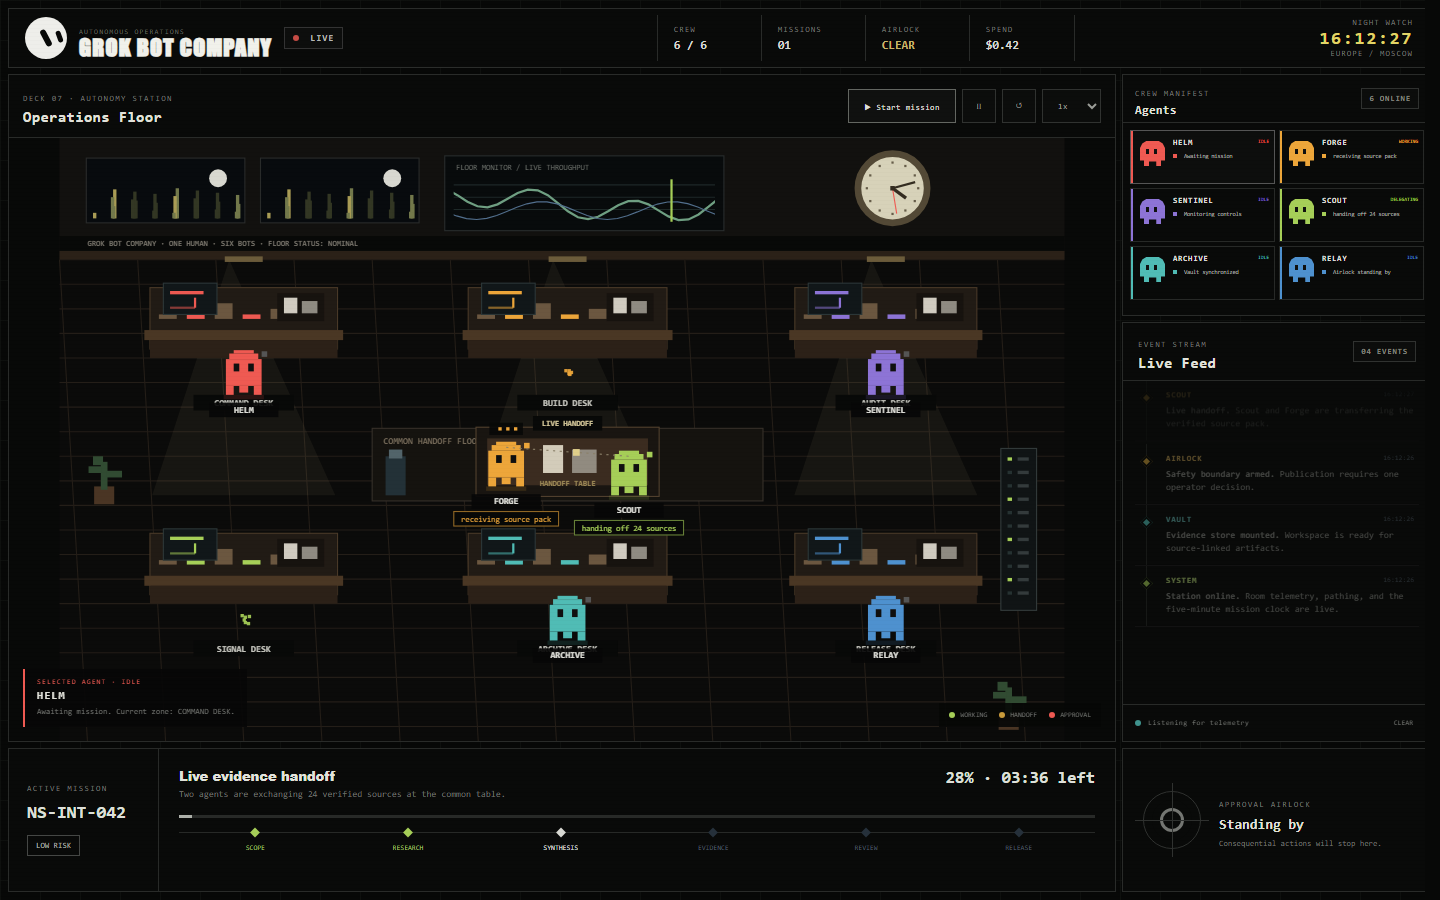
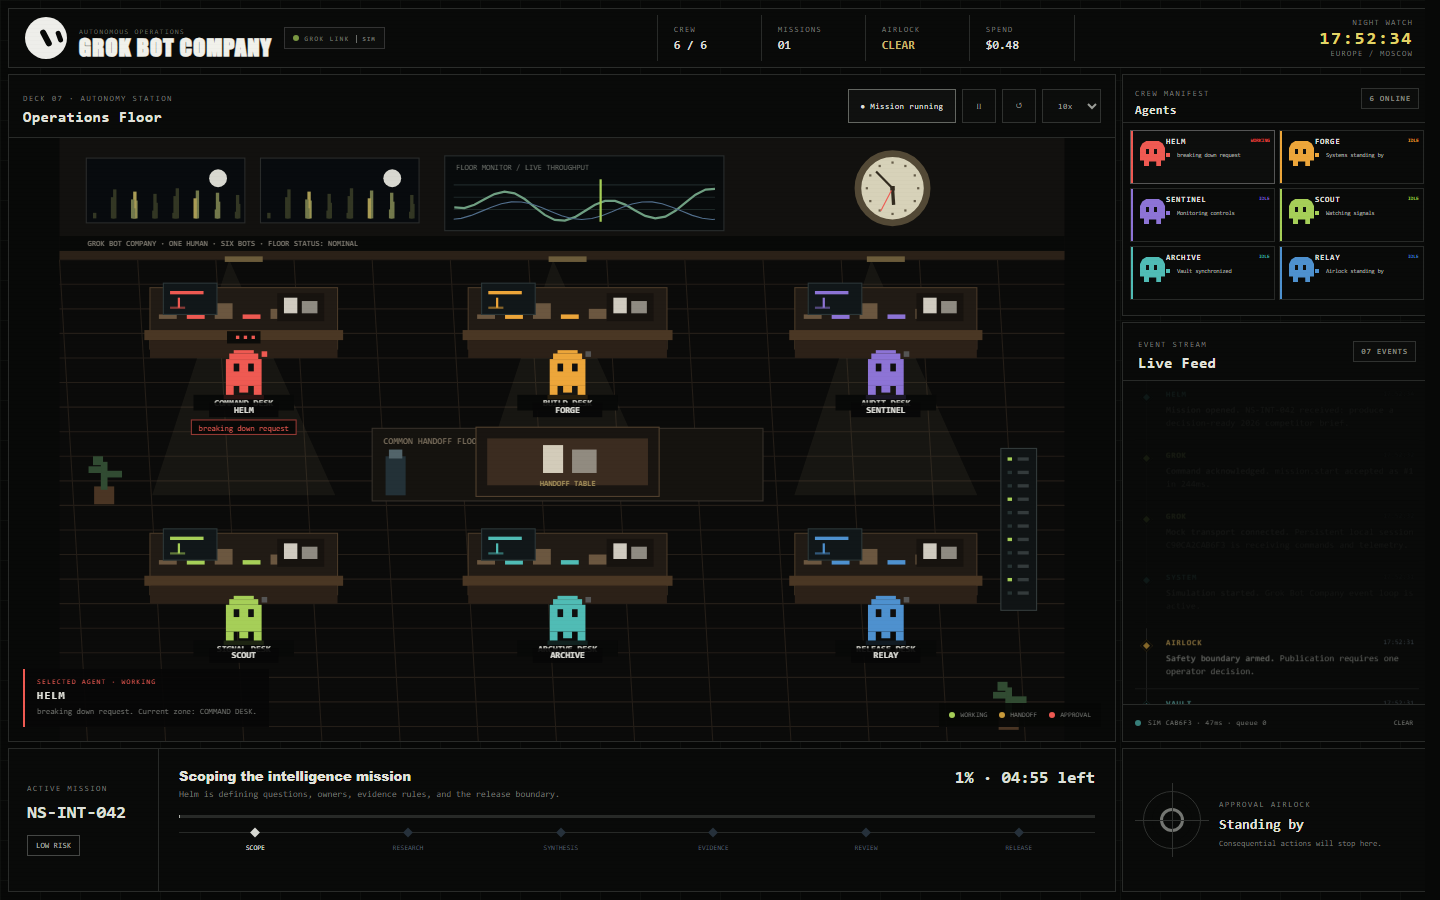
added logic

diff --git a/app.js b/app.js
@@ -2,6 +2,7 @@
 "use strict";
 const $=s=>document.querySelector(s), canvas=$("#stationCanvas"), ctx=canvas.getContext("2d");
 const C={helm:"#ef5a52",forge:"#eda63a",sentinel:"#8d74d6",scout:"#a6cf58",archive:"#50bcb5",relay:"#4e91cf",green:"#a6cf58",amber:"#c99b3b",red:"#ef5a52",cyan:"#50bcb5",muted:"#747474"};
+const bridge=window.grokBot||null;
 const zones=[
  {id:"bridge",name:"COMMAND DESK",x:65,y:115,w:200,h:125,color:C.helm,type:"bridge"},
  {id:"build",name:"BUILD DESK",x:350,y:115,w:210,h:125,color:C.forge,type:"build"},
@@ -76,6 +77,7 @@ function event(actor,title,message,tone){
  el.className="event";el.style.setProperty("--tone",colors[tone]||C.cyan);
  el.innerHTML='<i></i><div><b>'+actor+'</b><time>'+time+'</time></div><p><strong>'+title+'.</strong> '+message+'</p>';
  $("#eventFeed").prepend(el);state.count++;$("#eventCount").textContent=String(state.count).padStart(2,"0")+" EVENTS";
+ if(bridge)bridge.recordEvent({missionId:"NS-INT-042",actor,title,message,tone});
 }
 function formatDuration(ms){const total=Math.max(0,Math.ceil(ms/1000)),m=Math.floor(total/60),s=total%60;return String(m).padStart(2,"0")+":"+String(s).padStart(2,"0")}
 function stage(name,progress,title,sub){
@@ -85,23 +87,28 @@ function stage(name,progress,title,sub){
 function requestApproval(){
  state.approval=true;state.running=false;$("#approvalIdle").hidden=true;$("#approvalRequest").hidden=false;
  $("#airlockMetric").textContent="01 WAITING";$("#airlockMetric").style.color=C.red;$("#riskBadge").textContent="APPROVAL HOLD";$("#riskBadge").style.color=C.red;burst(points.airlock.x,points.airlock.y,C.red,28);
+ if(bridge)bridge.requestApproval({missionId:"NS-INT-042",agent:"relay",action:"publish intelligence brief",reversible:true});
 }
 function resolve(ok){
  if(!state.approval)return;state.approval=false;$("#approvalIdle").hidden=false;$("#approvalRequest").hidden=true;$("#airlockMetric").textContent="CLEAR";$("#airlockMetric").style.color="";
+ if(bridge)bridge.resolveApproval(ok?"approved":"rejected");
  if(ok){event("operator","Action approved","The intelligence brief passed through the Approval Airlock.","green");agent("relay","complete","release approved","airlock");agent("helm","complete","mission completed","bridge");stage("release",100,"Mission complete","Six agents produced an audited brief with a traceable evidence record.");$("#riskBadge").textContent="COMPLETED";$("#riskBadge").style.color=C.green;state.complete=true;state.spend=4.07;$("#spendMetric").textContent="$4.07";setTimeout(()=>event("helm","Mission completed","NS-INT-042 closed with a clean evidence record.","green"),500);burst(points.bridge.x,points.bridge.y,C.green,24)}
  else{state.rejected=true;event("operator","Action rejected","Publication blocked; all artifacts remain reversible in the Vault.","red");agent("relay","idle","release cancelled","airlock");agent("helm","working","revising release plan","bridge");agent("forge","working","preparing private revision","build");stage("synthesis",48,"Returned for revision","The external action was rejected; the evidence pack remains intact.");$("#riskBadge").textContent="REVISION";$("#riskBadge").style.color=C.amber}
 }
 function start(){
  if(state.complete||state.rejected||state.cursor>=timeline.length)reset(false);if(state.approval)return;
- state.running=true;state.paused=false;$("#startBtn").textContent="● Mission running";event("system","Simulation started","Grok Bot Company event loop is active.","cyan");
+ state.running=true;state.paused=false;$("#startBtn").textContent="● Mission running";event("system","System started","Grok Bot Company event loop is active.","cyan");
+ if(bridge)bridge.startMission({id:"NS-INT-042",objective:"Build the 2026 competitor intelligence brief",agents:agents.map(a=>a.id)}).then(ack=>event("grok","Command acknowledged","mission.start accepted as #"+ack.sequence+" in "+ack.latency+"ms.","green")).catch(()=>event("grok","Transport warning","Mission continues locally; command acknowledgement was not received.","amber"));
 }
 function pause(){
- if(state.approval||state.complete)return;state.paused=!state.paused;state.running=!state.paused;$("#pauseBtn").textContent=state.paused?"▶":"Ⅱ";event("system",state.paused?"Simulation paused":"Simulation resumed",state.paused?"Timeline execution is holding.":"Timeline execution continues.","amber");
+ if(state.approval||state.complete)return;state.paused=!state.paused;state.running=!state.paused;$("#pauseBtn").textContent=state.paused?"▶":"Ⅱ";event("system",state.paused?"System paused":"System resumed",state.paused?"Timeline execution is holding.":"Timeline execution continues.","amber");
+ if(bridge)bridge.setMissionState(state.paused?"paused":"running");
 }
 function reset(announce=true){
  state.running=false;state.paused=false;state.approval=false;state.complete=false;state.rejected=false;state.elapsed=0;state.cursor=0;state.artifacts=0;state.spend=.42;agents=initial.map(a=>({...a}));
  $("#approvalIdle").hidden=false;$("#approvalRequest").hidden=true;$("#airlockMetric").textContent="CLEAR";$("#airlockMetric").style.color="";$("#spendMetric").textContent="$0.42";$("#riskBadge").textContent="LOW RISK";$("#riskBadge").style.color="";$("#startBtn").textContent="▶ Start mission";$("#pauseBtn").textContent="Ⅱ";
  stage(null,0,"Build the 2026 competitor intelligence brief","Research 24 sources, map claims, build an evidence pack, audit, and prepare release.");document.querySelectorAll("#stages span").forEach(n=>n.classList.remove("active","done"));renderRoster();select("helm");if(announce)event("system","Mission reset","All agents returned to their stations; the five-minute clock is ready.","amber");
+ if(bridge&&announce)bridge.resetMission();
 }
 function burst(x,y,color,count){for(let i=0;i<count;i++)state.particles.push({x,y,color,life:1,dx:(Math.random()-.5)*2.8,dy:(Math.random()-.5)*2.8})}
 function resize(){const r=canvas.getBoundingClientRect(),d=Math.min(devicePixelRatio||1,2);canvas.width=Math.max(1,r.width*d);canvas.height=Math.max(1,r.height*d);ctx.setTransform(d,0,0,d,0,0);ctx.imageSmoothingEnabled=false}
@@ -194,8 +201,25 @@ function draw(){const w=canvas.clientWidth,h=canvas.clientHeight;ctx.clearRect(0
 function tick(now){const dt=Math.min(40,now-state.last);state.last=now;if(state.running&&!state.approval){state.elapsed=Math.min(state.duration,state.elapsed+dt*state.speed);while(state.cursor<timeline.length&&state.elapsed>=timeline[state.cursor].at)timeline[state.cursor++].run();if(!state.approval){const progress=Math.min(96,Math.floor(state.elapsed/state.duration*100));$("#progressBar").style.width=progress+"%";$("#progressLabel").textContent=progress+"% · "+formatDuration(state.duration-state.elapsed)+" left"}state.spend=Math.min(4.07,.42+state.elapsed/1000*.0122);$("#spendMetric").textContent="$"+state.spend.toFixed(2)}ambient(now);move(dt);draw();requestAnimationFrame(tick)}
 function canvasClick(e){const r=canvas.getBoundingClientRect(),t=transform(),x=(e.clientX-r.left-t.ox)/t.s,y=(e.clientY-r.top-t.oy)/t.s,a=agents.find(q=>Math.hypot(q.x-x,q.y-y)<30);if(a)return select(a.id);const z=zones.find(q=>x>=q.x&&x<=q.x+q.w&&y>=q.y&&y<=q.y+q.h);if(z){const box=$("#selection"),crew=agents.filter(a=>a.zone===z.id).length;box.querySelector("span").textContent="STATION ZONE";box.querySelector("b").textContent=z.name;box.querySelector("p").textContent=crew+" crew assigned · "+z.type.toUpperCase()+" subsystem online.";box.style.borderColor=z.color;box.querySelector("span").style.color=z.color}}
 function clock(){$("#clock").textContent=new Intl.DateTimeFormat("en-GB",{timeZone:"Europe/Moscow",hour:"2-digit",minute:"2-digit",second:"2-digit",hour12:false}).format(new Date())}
-$("#startBtn").onclick=start;$("#pauseBtn").onclick=pause;$("#resetBtn").onclick=()=>reset();$("#speed").onchange=e=>{state.speed=Number(e.target.value);event("system","Timeline speed changed","Simulation is running at "+state.speed+"×.","amber")};$("#approveBtn").onclick=()=>resolve(true);$("#rejectBtn").onclick=()=>resolve(false);$("#inspectBtn").onclick=()=>$("#inspectDialog").showModal();$("#clearFeed").onclick=()=>{$("#eventFeed").innerHTML="";state.count=0;$("#eventCount").textContent="00 EVENTS"};canvas.onclick=canvasClick;window.onresize=resize;if("ResizeObserver"in window)new ResizeObserver(resize).observe(canvas);
+function transportState(status,detail={}){
+ const badge=$("#connectionBadge"),label=$("#connectionText"),bus=$("#eventBusStatus"),footer=$("#transportStatus"),session=(detail.sessionId||bridge&&bridge.sessionId||"session_pending").split("_").pop().slice(-6).toUpperCase();
+ badge.classList.remove("connecting","online","offline");badge.classList.add(status);badge.dataset.mode=detail.mode||"mock";
+ if(status==="online"){label.textContent="GROK LINK";bus.textContent="ONLINE";footer.textContent="SIM "+session+" · "+(detail.rtt||"--")+"ms · queue "+(detail.queueDepth||0)}
+ else if(status==="connecting"){label.textContent="LINKING";bus.textContent="LINKING";footer.textContent="Negotiating Grok session "+session}
+ else{label.textContent="OFFLINE";bus.textContent="OFFLINE";footer.textContent="Local mission engine only"}
+ badge.title="Grok Bot transport · session "+session;
+}
+function bindTransport(){
+ if(!bridge){transportState("offline");return}
+ bridge.addEventListener("connection",e=>transportState(e.detail.status,e.detail));
+ bridge.addEventListener("heartbeat",e=>transportState("online",e.detail));
+ bridge.addEventListener("queue",e=>{const status=bridge.snapshot();transportState(status.status,{sessionId:status.sessionId,mode:status.mode,rtt:status.lastAck&&status.lastAck.latency,queueDepth:e.detail.depth})});
+ bridge.addEventListener("ack",e=>transportState("online",{sessionId:e.detail.sessionId,mode:e.detail.mode,rtt:e.detail.latency,queueDepth:bridge.snapshot().queueDepth}));
+ bridge.connect().then(info=>event("grok","Mock transport connected","Persistent local session "+info.sessionId.split("_").pop().toUpperCase()+" is receiving commands and telemetry.","green")).catch(()=>transportState("offline"));
+}
+$("#startBtn").onclick=start;$("#pauseBtn").onclick=pause;$("#resetBtn").onclick=()=>reset();$("#speed").onchange=e=>{state.speed=Number(e.target.value);event("system","Timeline speed changed","System is running at "+state.speed+"×.","amber")};$("#approveBtn").onclick=()=>resolve(true);$("#rejectBtn").onclick=()=>resolve(false);$("#inspectBtn").onclick=()=>$("#inspectDialog").showModal();$("#clearFeed").onclick=()=>{$("#eventFeed").innerHTML="";state.count=0;$("#eventCount").textContent="00 EVENTS"};canvas.onclick=canvasClick;window.onresize=resize;if("ResizeObserver"in window)new ResizeObserver(resize).observe(canvas);
 window.onkeydown=e=>{if(e.code==="Space"&&e.target.tagName!=="BUTTON"){e.preventDefault();state.running?pause():start()}if(e.key.toLowerCase()==="r")reset()};
+bindTransport();
 renderRoster();resize();select("helm");stage(null,0,"Build the 2026 competitor intelligence brief","Research 24 sources, map claims, build an evidence pack, audit, and prepare release.");document.querySelectorAll("#stages span").forEach(n=>n.classList.remove("active","done"));
 event("system","Station online","Room telemetry, pathing, and the five-minute mission clock are live.","green");event("vault","Evidence store mounted","Workspace is ready for source-linked artifacts.","cyan");event("airlock","Safety boundary armed","Publication requires one operator decision.","amber");
 clock();setInterval(clock,1000);requestAnimationFrame(tick);

diff --git a/grokbot-adapter.js b/grokbot-adapter.js
@@ -1,0 +1,37 @@
+(() => {
+"use strict";
+const STORAGE_KEY="grok-bot-company.transport.v1";
+const wait=ms=>new Promise(resolve=>setTimeout(resolve,ms));
+class GrokBotAdapter extends EventTarget{
+ constructor(options={}){
+  super();const saved=this.read();this.mode=options.mode||"mock";this.status="offline";
+  this.sessionId=saved.sessionId||this.createId("session");this.sequence=saved.sequence||0;this.startedAt=Date.now();
+  this.lastHeartbeat=0;this.lastAck=null;this.outbox=[];this.telemetry=saved.telemetry||[];this.mission=saved.mission||null;this.connecting=null;this.heartbeatTimer=0;
+ }
+ createId(prefix){const value=globalThis.crypto&&crypto.randomUUID?crypto.randomUUID().replaceAll("-","").slice(0,12):Math.random().toString(16).slice(2,14);return prefix+"_"+value}
+ read(){try{return JSON.parse(localStorage.getItem(STORAGE_KEY)||"{}")}catch{return{}}}
+ persist(){try{localStorage.setItem(STORAGE_KEY,JSON.stringify({sessionId:this.sessionId,sequence:this.sequence,mission:this.mission,telemetry:this.telemetry.slice(0,40)}))}catch{}}
+ emit(type,detail={}){this.dispatchEvent(new CustomEvent(type,{detail:Object.assign({mode:this.mode,status:this.status,sessionId:this.sessionId},detail)}))}
+ async connect(){
+  if(this.status==="online")return this.snapshot();if(this.connecting)return this.connecting;this.status="connecting";this.emit("connection");
+  this.connecting=(async()=>{await wait(420+Math.random()*420);this.status="online";this.lastHeartbeat=Date.now();this.startHeartbeat();this.persist();this.emit("connection",{rtt:Math.round(38+Math.random()*34)});this.connecting=null;return this.snapshot()})();
+  return this.connecting;
+ }
+ disconnect(){clearInterval(this.heartbeatTimer);this.status="offline";this.emit("connection")}
+ startHeartbeat(){clearInterval(this.heartbeatTimer);this.heartbeatTimer=setInterval(()=>{this.lastHeartbeat=Date.now();this.emit("heartbeat",{rtt:Math.round(31+Math.random()*43),queueDepth:this.outbox.length,uptime:Date.now()-this.startedAt})},2200)}
+ async command(name,payload={}){
+  if(this.status!=="online")await this.connect();
+  const envelope={id:this.createId("cmd"),sequence:++this.sequence,name,payload,createdAt:new Date().toISOString()};this.outbox.push(envelope);this.emit("queue",{depth:this.outbox.length,command:name});
+  const latency=Math.round(85+Math.random()*210);await wait(latency);this.outbox=this.outbox.filter(item=>item.id!==envelope.id);
+  const ack={commandId:envelope.id,sequence:envelope.sequence,name,status:"accepted",latency,acknowledgedAt:new Date().toISOString()};this.lastAck=ack;this.persist();this.emit("ack",ack);return ack;
+ }
+ startMission(payload){this.mission={id:payload.id,state:"running",objective:payload.objective,startedAt:new Date().toISOString()};this.persist();return this.command("mission.start",payload)}
+ setMissionState(next){if(this.mission)this.mission.state=next;this.persist();return this.command("mission."+next,{missionId:this.mission&&this.mission.id})}
+ resetMission(){this.mission=null;this.persist();return this.command("mission.reset",{})}
+ requestApproval(payload){if(this.mission)this.mission.state="waiting_approval";this.persist();return this.command("approval.request",payload)}
+ resolveApproval(decision){if(this.mission)this.mission.state=decision==="approved"?"complete":"revision";this.persist();return this.command("approval.resolve",{missionId:this.mission&&this.mission.id,decision})}
+ recordEvent(payload){const packet=Object.assign({packetId:this.createId("evt"),receivedAt:new Date().toISOString()},payload);this.telemetry.unshift(packet);this.telemetry=this.telemetry.slice(0,40);this.persist();this.emit("telemetry",packet);return packet}
+ snapshot(){return{mode:this.mode,status:this.status,sessionId:this.sessionId,mission:this.mission,queueDepth:this.outbox.length,lastHeartbeat:this.lastHeartbeat,lastAck:this.lastAck}}
+}
+window.GrokBotAdapter=GrokBotAdapter;window.grokBot=new GrokBotAdapter({mode:"mock"});
+})();

diff --git a/index.html b/index.html
@@ -14,7 +14,7 @@
       <div class=brand>
         <div class=brand-mark><i></i></div>
         <div><span>AUTONOMOUS OPERATIONS</span><h1>GROK BOT COMPANY</h1></div>
-        <b class=live><i></i> LIVE</b>
+        <b id=connectionBadge class="live connecting" data-mode=mock><i></i><span id=connectionText>LINKING</span></b>
       </div>
       <div class=metrics>
         <div><span>CREW</span><b>6 / 6</b></div>
@@ -30,7 +30,7 @@
         <div id="agentRoster" class="agent-list"></div>
         <div class="health">
           <div><span>STATION HEALTH</span><b>98.7%</b></div><i><em></em></i>
-          <p><span><i class="dot cyan"></i>Event bus</span><b>ONLINE</b></p>
+          <p><span><i class="dot cyan"></i>Event bus</span><b id=eventBusStatus>LINKING</b></p>
           <p><span><i class="dot green"></i>Vault</span><b>SYNCED</b></p>
           <p><span><i class="dot amber"></i>Routines</span><b>03</b></p>
         </div>
@@ -53,7 +53,7 @@
       <aside class="panel feed">
         <div class="panel-head"><div><span>EVENT STREAM</span><h2>Live Feed</h2></div><b id="eventCount">03 EVENTS</b></div>
         <div id="eventFeed" class="events"></div>
-        <div class="feed-foot"><span><i></i>Listening for telemetry</span><button id="clearFeed">CLEAR</button></div>
+        <div class="feed-foot"><span><i></i><em id=transportStatus>Opening Grok transport</em></span><button id="clearFeed">CLEAR</button></div>
       </aside>
       <section class="panel mission">
         <div class="mission-id"><span>ACTIVE MISSION</span><b>NS-INT-042</b><em id="riskBadge">LOW RISK</em></div>
@@ -78,6 +78,7 @@
     <section><p><b>Target:</b> Executive intelligence workspace</p><p><b>Payload:</b> 12-page brief, claim map, citations, and source ledger.</p><p><b>Rollback:</b> Draft publication can be removed.</p><p><b>Evidence:</b> 24 sources, 18 indexed artifacts, and 12 passed checks.</p></section>
     <footer><button value="close" class="primary">Return to airlock</button></footer>
   </form></dialog>
+  <script src="grokbot-adapter.js"></script>
   <script src="app.js"></script>
 </body>
 </html>

diff --git a/theme-muted.css b/theme-muted.css
@@ -56,3 +56,7 @@ dialog{border-color:#333;background:#0a0b0a;box-shadow:none}
  .grid{width:100%;min-height:0}
  #stationCanvas{max-width:100%}
 }
+
+/* GROK BOT TRANSPORT */
+.live{white-space:nowrap}.live[data-mode=mock]:after{content:"SIM";margin-left:6px;padding-left:6px;border-left:1px solid currentColor;font-size:6px;opacity:.55}.live.online i{background:var(--green)}.live.connecting i{background:var(--amber)}.live.offline{color:var(--red)}.live.offline i{background:var(--red)}
+.feed-foot span{min-width:0}.feed-foot span i{flex:0 0 auto}.feed-foot span em{overflow:hidden;text-overflow:ellipsis;white-space:nowrap;font-style:normal}

diff --git a/README.md b/README.md
@@ -92,7 +92,7 @@ Then visit `http://localhost:8080`.
 | `Start mission` | Starts the mission timeline |
 | Pause button | Pauses or resumes execution |
 | Reset button | Returns agents and mission state to the beginning |
-| `1x–10x` | Changes simulation speed |
+| `1x–10x` | Changes system speed |
 | `Space` | Starts, pauses, or resumes |
 | `R` | Resets the mission |
 | Agent card or bot | Opens the current task and location |
@@ -123,6 +123,19 @@ Live Feed + mission telemetry + approval state
 
 The visual layer is intentionally separated from the mission events. A real agent backend can replace the built-in timeline by sending the same state transitions over WebSocket, Server-Sent Events, or an MCP bridge.
 
+### Mock Grok Bot transport
+
+The browser currently loads `grokbot-adapter.js` before the interface engine. It provides a production-shaped local transport without making external requests:
+
+- persistent session IDs stored in `localStorage`;
+- realistic connection and command acknowledgement latency;
+- heartbeat, uptime, queue-depth, and round-trip telemetry;
+- mission start, pause, resume, and reset commands;
+- approval request and resolution commands;
+- a 40-event local telemetry buffer.
+
+The header deliberately displays `SIM` next to `GROK LINK`. Replace `window.grokBot` with an adapter exposing the same methods to connect a real service without changing the canvas renderer or mission controls.
+
 Suggested production event format:
 
 ```json
@@ -145,6 +158,7 @@ Consequential operations should always be represented as approval requests and m
 .
 ├── index.html          Application shell and control panels
 ├── app.js              Mission engine, routing, agents, canvas renderer
+├── grokbot-adapter.js  Mock transport, commands, heartbeat, persistence
 ├── styles.css          Base layout and component styles
 ├── theme-muted.css     Grok Bot Company theme and responsive rules
 ├── preview.png         Current interface preview
@@ -158,8 +172,8 @@ Consequential operations should always be represented as approval requests and m
 - Adjust the five-minute runtime using `state.duration`.
 - Add room destinations in the `points` object.
 - Change desktop and compact layouts in the `VIEWPORT-LOCKED RESPONSIVE SHELL` section of `theme-muted.css`.
-- Replace simulated events with backend messages while keeping the existing `agent()`, `event()`, and `stage()` update model.
+- Replace events with backend messages while keeping the existing `agent()`, `event()`, and `stage()` update model.
 
 ## Current status
 
-The interface, movement system, mission state machine, telemetry feed, and approval flow run entirely in the browser. External data sources, persistent storage, authentication, and real model execution are integration points for the production backend.
+The interface, movement system, mission state machine, telemetry feed, mock transport, and approval flow run entirely in the browser. External data sources, server-side storage, authentication, and real model execution remain integration points for the production backend.
